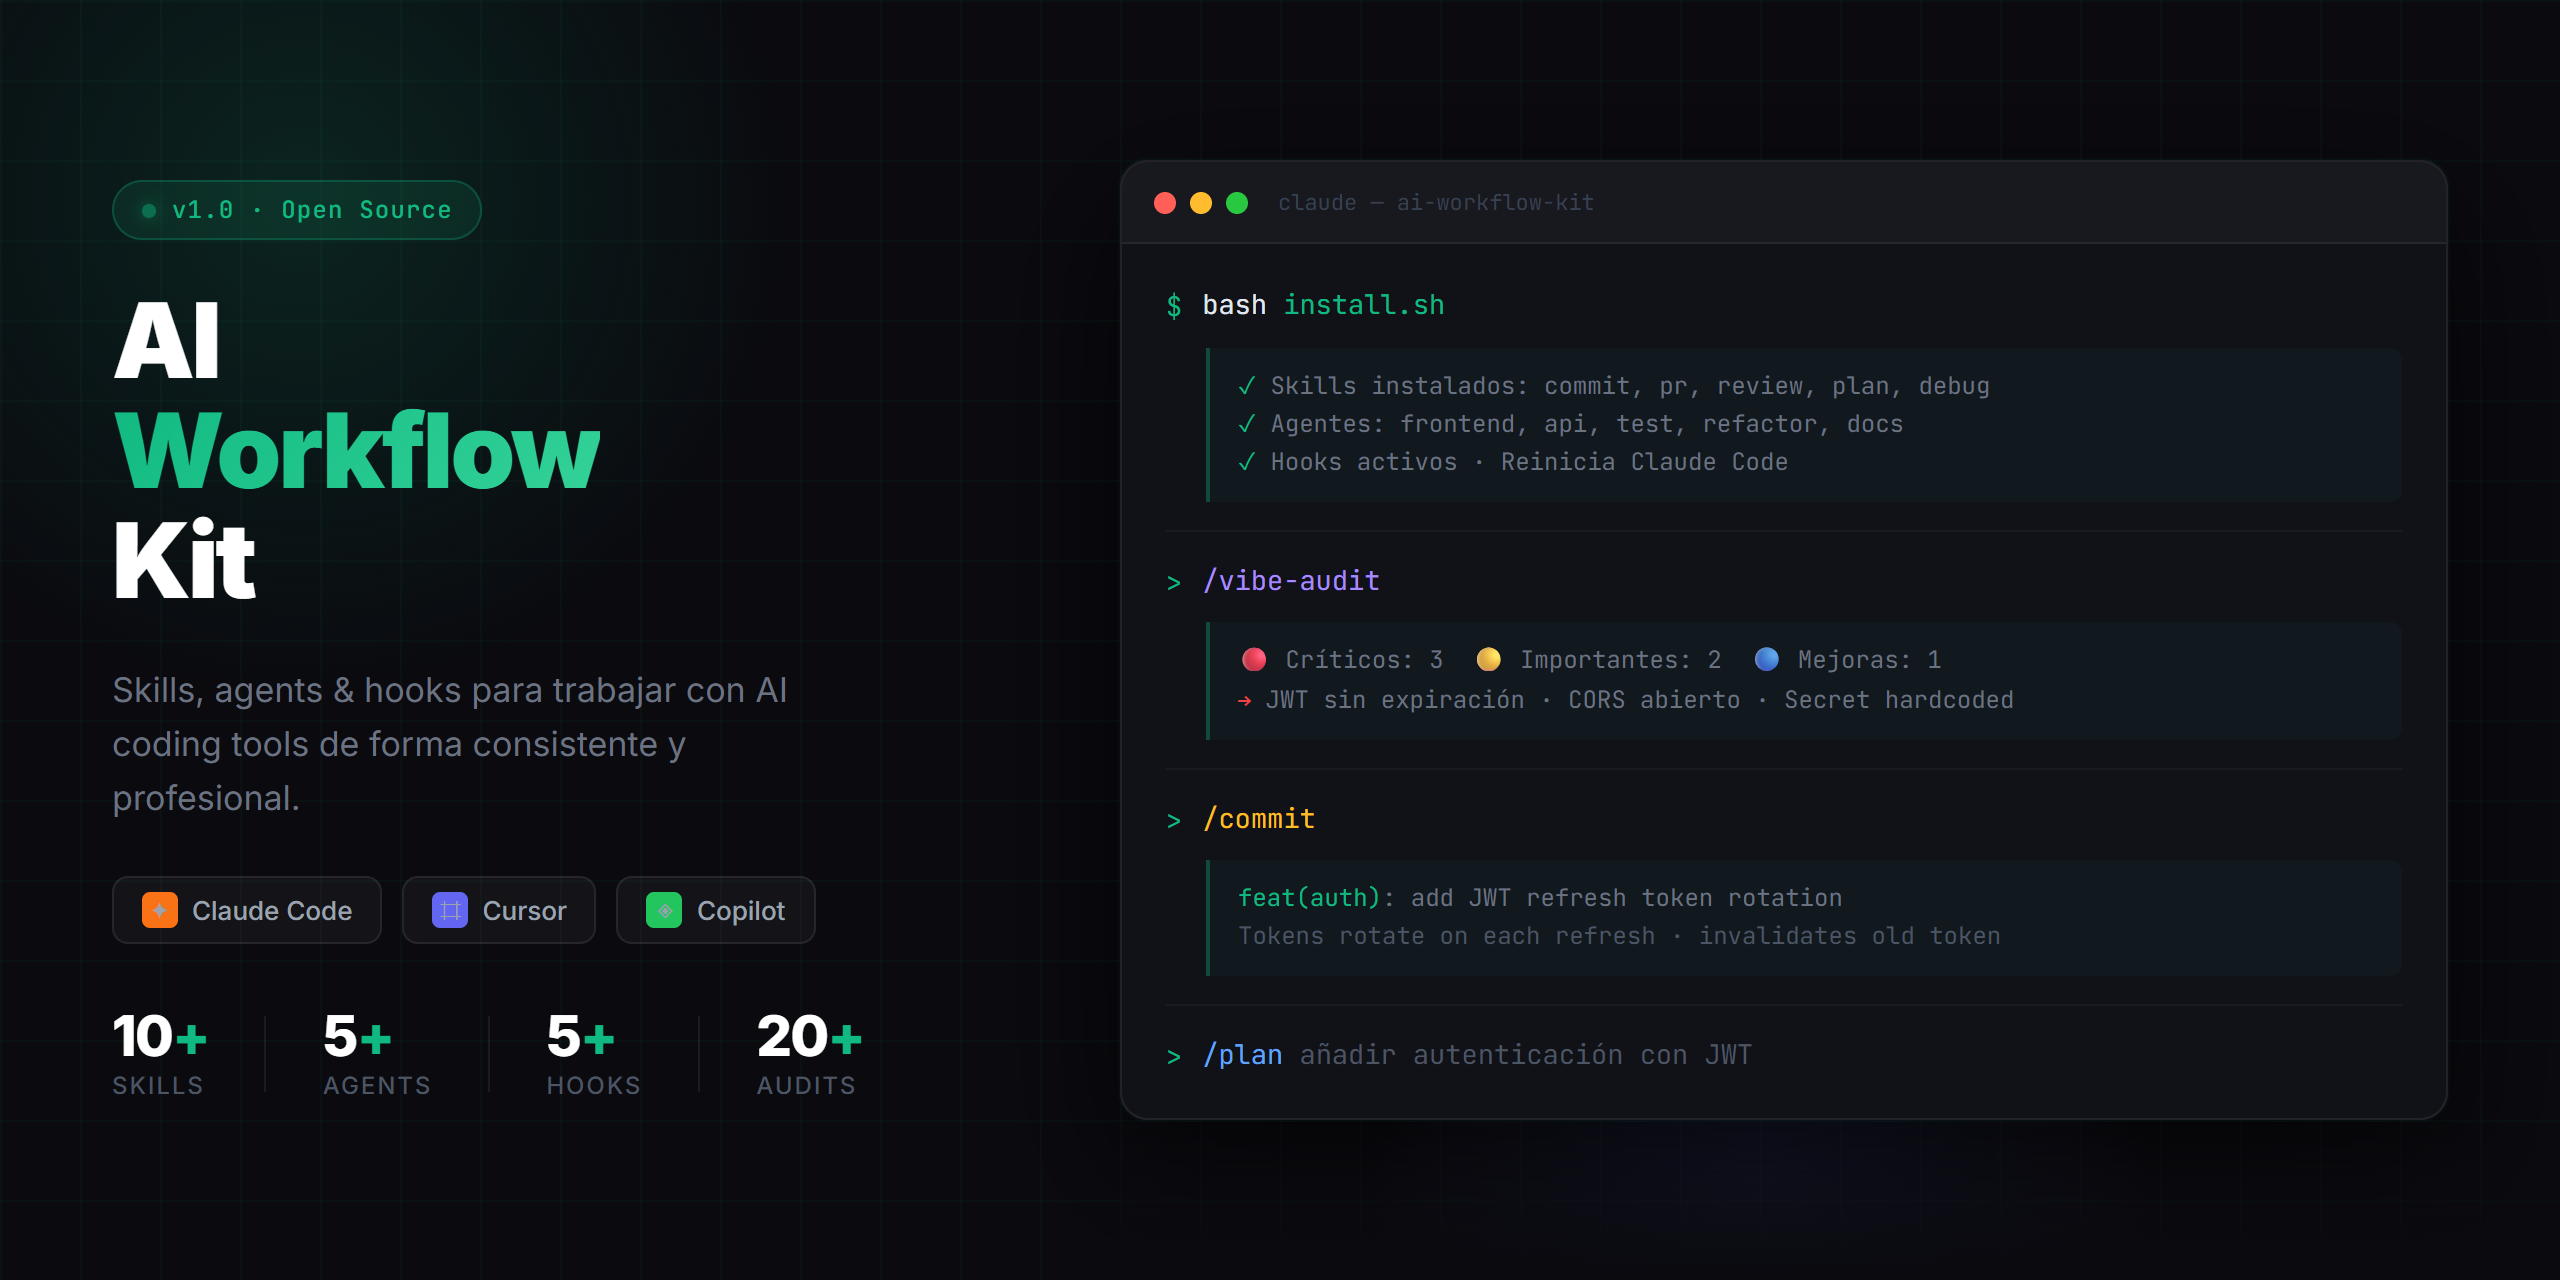
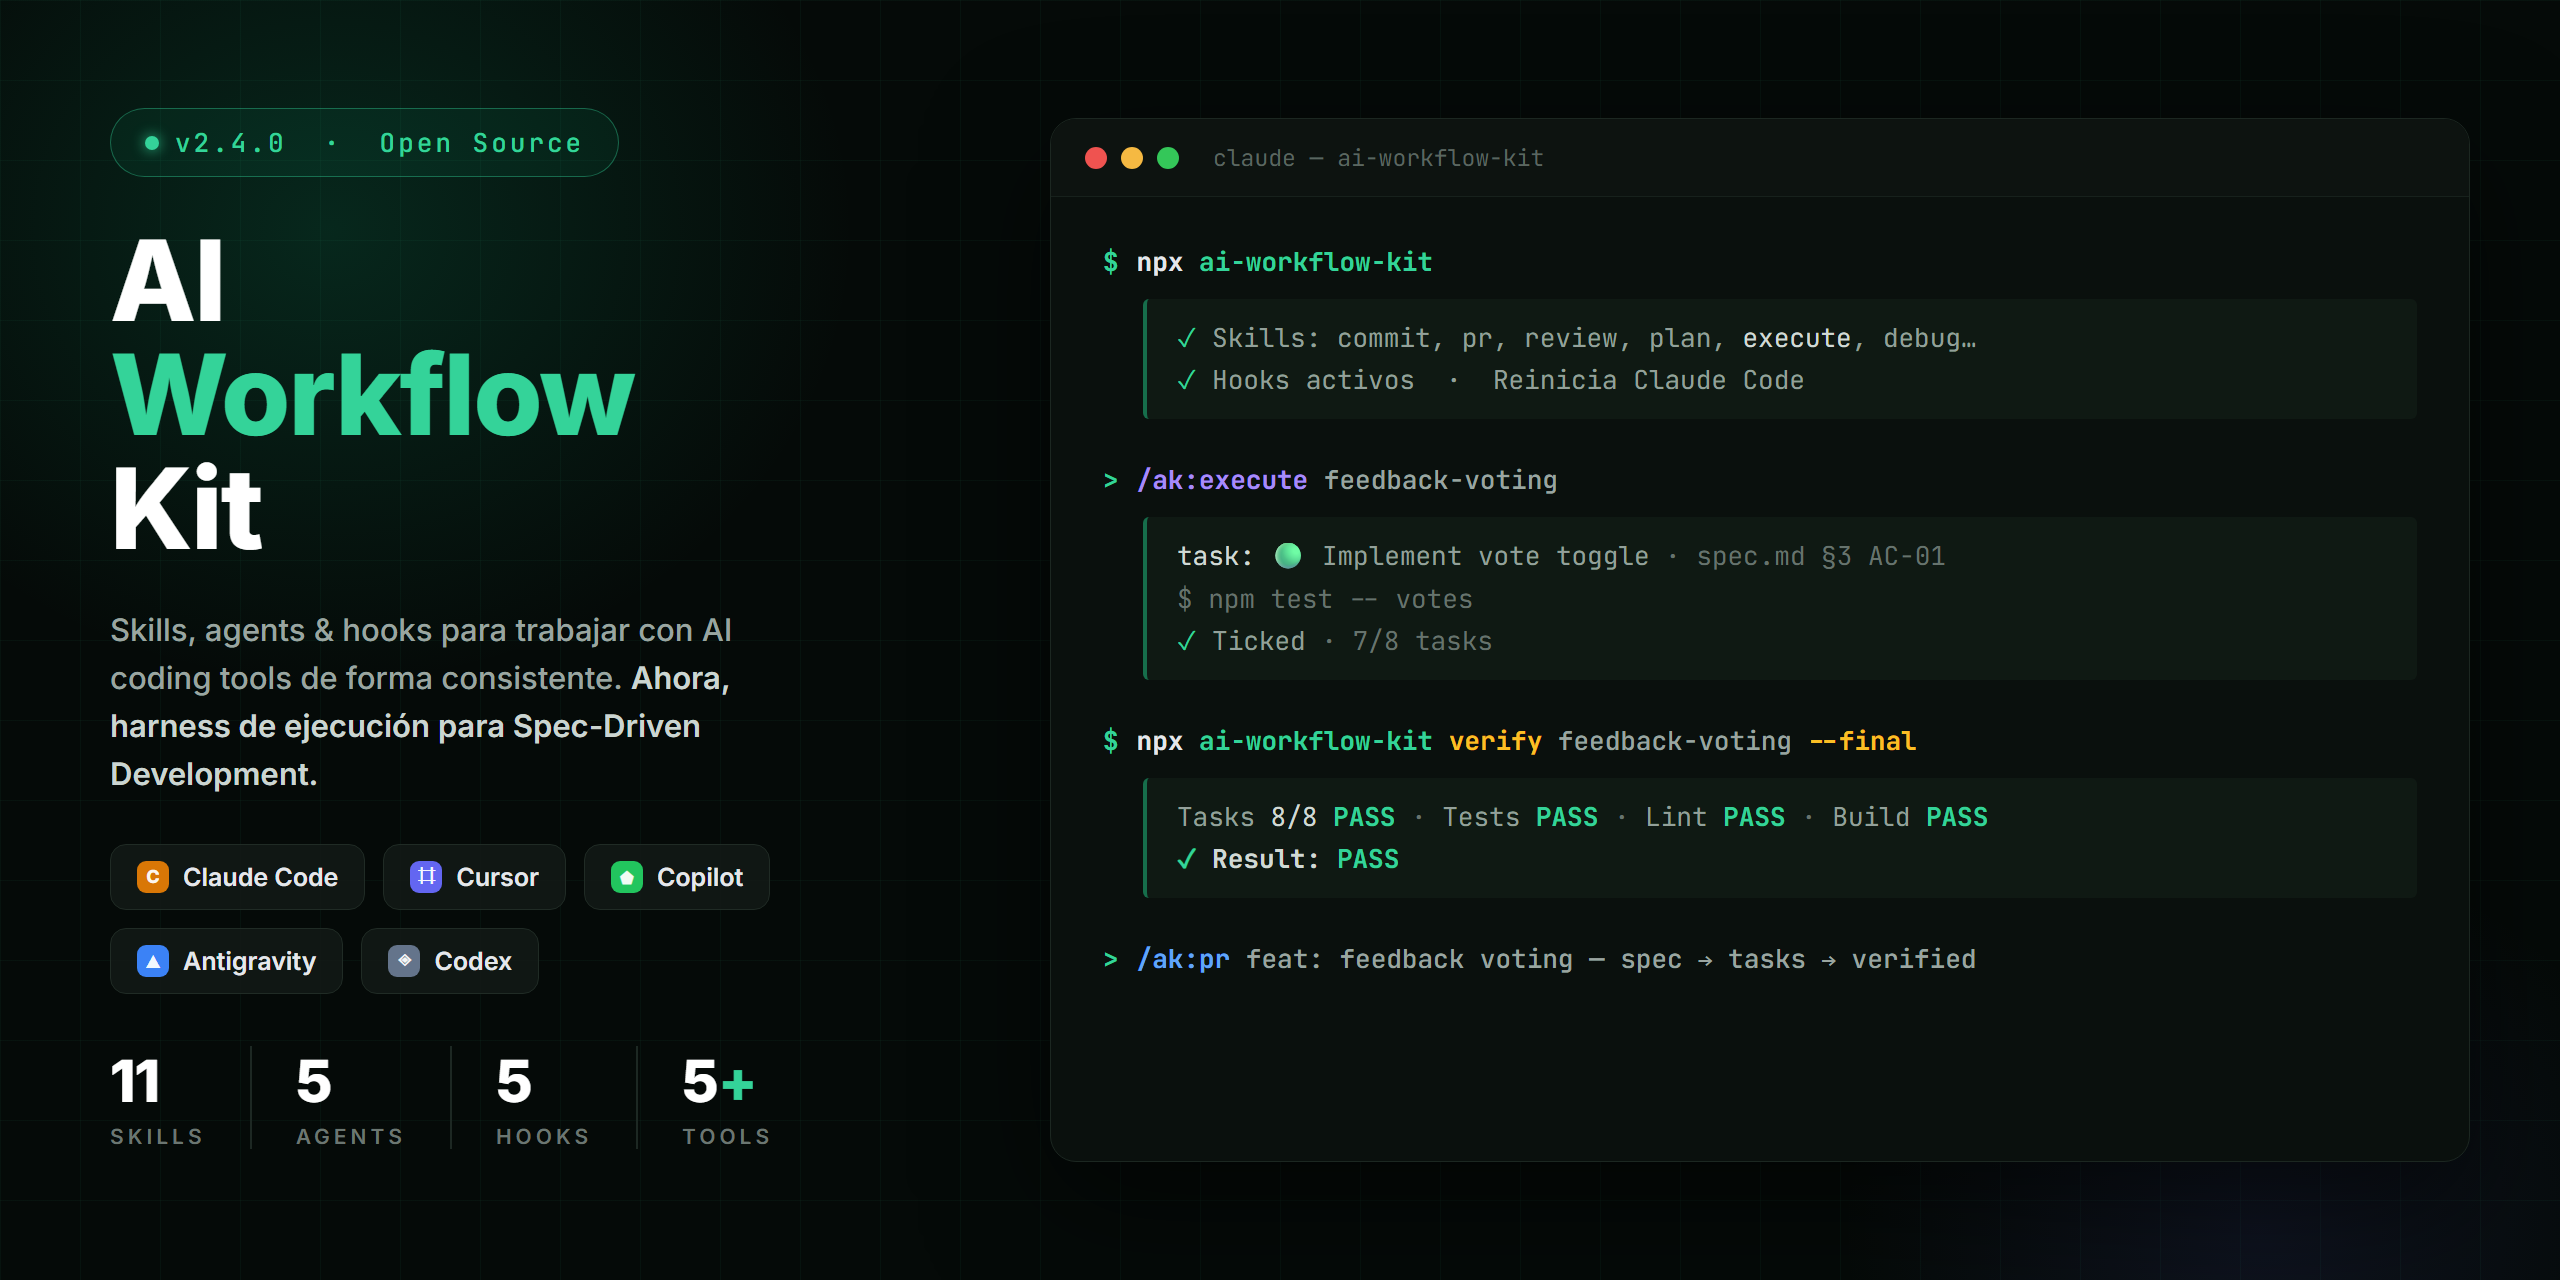
docs(readme): refresh the v2.4.0 cover and fix stale install/contribute sections
The banner still said v1.0, bash install.sh, three tools and pre-ak
command names. Rebuilt (with its HTML source now committed): v2.4.0,
five tools, and a terminal telling the SDD story — execute, verify,
--final. README fixes: the Claude Code install section copied flat
.md skills that stopped existing, How to Contribute pointed at editing
generated files, and the Structure tree omitted bin/, src/, docs/,
evals/ and .out-of-scope/. Both languages.

Claude-Session: https://claude.ai/code/session_013xsxEAEMyCqVQzPtApRQUP

diff --git a/banner.html b/banner.html
@@ -1,0 +1,166 @@
+<!doctype html>
+<!--
+  Source of banner.png. Regenerate after editing:
+  chrome --headless=new --disable-gpu --hide-scrollbars --force-device-scale-factor=1 \n    --window-size=2560,1280 --virtual-time-budget=10000 --screenshot=banner.png banner.html
+-->
+<html>
+<head>
+<meta charset="utf-8">
+<link rel="preconnect" href="https://fonts.googleapis.com">
+<link href="https://fonts.googleapis.com/css2?family=Inter:wght@500;600;700;800&family=JetBrains+Mono:wght@400;500;700&display=swap" rel="stylesheet">
+<style>
+  * { margin: 0; padding: 0; box-sizing: border-box; }
+  html, body { width: 2560px; height: 1280px; overflow: hidden; }
+  body {
+    font-family: 'Inter', 'Segoe UI', sans-serif;
+    background: #050a08;
+    position: relative;
+    color: #fff;
+  }
+  /* grid + glows */
+  .grid {
+    position: absolute; inset: 0;
+    background-image:
+      linear-gradient(rgba(52,211,153,.045) 1px, transparent 1px),
+      linear-gradient(90deg, rgba(52,211,153,.045) 1px, transparent 1px);
+    background-size: 80px 80px;
+  }
+  .glow-tl {
+    position: absolute; left: -420px; top: -420px; width: 1500px; height: 1300px;
+    background: radial-gradient(closest-side, rgba(16,185,129,.17), transparent 70%);
+  }
+  .glow-br {
+    position: absolute; right: -300px; bottom: -500px; width: 1200px; height: 1100px;
+    background: radial-gradient(closest-side, rgba(99,102,241,.10), transparent 70%);
+  }
+
+  .left { position: absolute; left: 110px; top: 108px; width: 720px; }
+
+  .badge {
+    display: inline-flex; align-items: center; gap: 16px;
+    border: 1.5px solid rgba(52,211,153,.4); border-radius: 999px;
+    background: rgba(16,185,129,.07);
+    padding: 16px 34px;
+    font-family: 'JetBrains Mono', monospace;
+    font-size: 26px; font-weight: 500; letter-spacing: 3px; color: #34d399;
+  }
+  .badge .dot { width: 14px; height: 14px; border-radius: 50%; background: #34d399; box-shadow: 0 0 14px rgba(52,211,153,.9); }
+
+  h1 { margin-top: 46px; font-size: 112px; line-height: 1.02; font-weight: 800; letter-spacing: -2px; }
+  h1 .accent { color: #34d399; }
+
+  .sub { margin-top: 40px; font-size: 31px; line-height: 1.55; color: #9aa5a0; font-weight: 500; max-width: 660px; }
+  .sub .hl { color: #cbd5d1; font-weight: 600; }
+
+  .pills { margin-top: 46px; display: flex; flex-wrap: wrap; gap: 18px; max-width: 700px; }
+  .pill {
+    display: inline-flex; align-items: center; gap: 14px;
+    background: rgba(19,26,22,.85); border: 1.5px solid #202b25; border-radius: 16px;
+    padding: 16px 26px; font-size: 25px; font-weight: 600; color: #e5e7eb;
+  }
+  .pill .ic { width: 32px; height: 32px; border-radius: 9px; display: inline-flex; align-items: center; justify-content: center; font-size: 18px; }
+  .ic-claude { background: #d97706; }
+  .ic-cursor { background: #6366f1; }
+  .ic-copilot { background: #22c55e; }
+  .ic-anti { background: #3b82f6; }
+  .ic-codex { background: #64748b; }
+  .pill .ic span { color: rgba(255,255,255,.95); font-weight: 800; }
+
+  .stats { margin-top: 52px; display: flex; align-items: flex-start; }
+  .stat { padding-right: 44px; }
+  .stat + .stat { border-left: 2px solid #1d2823; padding-left: 44px; }
+  .stat .num { font-size: 58px; font-weight: 800; letter-spacing: -1px; }
+  .stat .num .plus { color: #34d399; }
+  .stat .lbl { margin-top: 8px; font-size: 21px; font-weight: 600; letter-spacing: 4px; color: #6b7671; }
+
+  /* terminal */
+  .term {
+    position: absolute; right: 90px; top: 118px; width: 1420px; height: 1044px;
+    background: #0a100d; border: 1.5px solid #1c2721; border-radius: 26px;
+    box-shadow: 0 40px 120px rgba(0,0,0,.55);
+    overflow: hidden;
+  }
+  .term-head {
+    height: 78px; display: flex; align-items: center; gap: 14px;
+    padding: 0 34px; background: #0d1310; border-bottom: 1.5px solid #17211c;
+  }
+  .term-head .b { width: 22px; height: 22px; border-radius: 50%; }
+  .term-head .r { background: #ef5350; } .term-head .y { background: #f5b942; } .term-head .g { background: #34c759; }
+  .term-head .title { margin-left: 20px; font-family: 'JetBrains Mono', monospace; font-size: 23px; color: #5b6660; }
+
+  .term-body { padding: 44px 52px; font-family: 'JetBrains Mono', monospace; font-size: 26px; line-height: 1.62; }
+  .cmd { display: flex; gap: 18px; }
+  .cmd .ps { color: #34d399; font-weight: 700; }
+  .cmd .c-white { color: #e5e7eb; font-weight: 700; }
+  .cmd .c-green { color: #34d399; font-weight: 700; }
+  .cmd .c-purple { color: #a78bfa; font-weight: 700; }
+  .cmd .c-yellow { color: #fbbf24; font-weight: 700; }
+  .cmd .c-blue { color: #60a5fa; font-weight: 700; }
+  .cmd .arg { color: #9aa5a0; font-weight: 500; }
+  .out {
+    margin: 16px 0 40px 40px; padding: 18px 30px;
+    border-left: 4px solid #166e4b; background: rgba(20,32,26,.55); border-radius: 6px;
+    color: #93a09a;
+  }
+  .out .ok { color: #34d399; }
+  .out .warn { color: #fbbf24; }
+  .out .em { color: #d1d9d5; }
+  .out .dim { color: #66736d; }
+  .out .pass { color: #34d399; font-weight: 700; }
+  .result-line { font-weight: 700; color: #d1d9d5; }
+</style>
+</head>
+<body>
+  <div class="grid"></div>
+  <div class="glow-tl"></div>
+  <div class="glow-br"></div>
+
+  <div class="left">
+    <div class="badge"><span class="dot"></span>v2.4.0 &nbsp;·&nbsp; Open Source</div>
+    <h1>AI<br><span class="accent">Workflow</span><br>Kit</h1>
+    <div class="sub">Skills, agents &amp; hooks para trabajar con AI coding tools de forma consistente. <span class="hl">Ahora, harness de ejecución para Spec-Driven Development.</span></div>
+    <div class="pills">
+      <div class="pill"><span class="ic ic-claude"><span>C</span></span>Claude Code</div>
+      <div class="pill"><span class="ic ic-cursor"><span>⌗</span></span>Cursor</div>
+      <div class="pill"><span class="ic ic-copilot"><span>⬟</span></span>Copilot</div>
+      <div class="pill"><span class="ic ic-anti"><span>▲</span></span>Antigravity</div>
+      <div class="pill"><span class="ic ic-codex"><span>◈</span></span>Codex</div>
+    </div>
+    <div class="stats">
+      <div class="stat"><div class="num">11</div><div class="lbl">SKILLS</div></div>
+      <div class="stat"><div class="num">5</div><div class="lbl">AGENTS</div></div>
+      <div class="stat"><div class="num">5</div><div class="lbl">HOOKS</div></div>
+      <div class="stat"><div class="num">5<span class="plus">+</span></div><div class="lbl">TOOLS</div></div>
+    </div>
+  </div>
+
+  <div class="term">
+    <div class="term-head">
+      <span class="b r"></span><span class="b y"></span><span class="b g"></span>
+      <span class="title">claude — ai-workflow-kit</span>
+    </div>
+    <div class="term-body">
+      <div class="cmd"><span class="ps">$</span><span><span class="c-white">npx</span> <span class="c-green">ai-workflow-kit</span></span></div>
+      <div class="out">
+        <div><span class="ok">✓</span> Skills: commit, pr, review, plan, <span class="em">execute</span>, debug…</div>
+        <div><span class="ok">✓</span> Hooks activos &nbsp;·&nbsp; Reinicia Claude Code</div>
+      </div>
+
+      <div class="cmd"><span class="ps">&gt;</span><span><span class="c-purple">/ak:execute</span> <span class="arg">feedback-voting</span></span></div>
+      <div class="out">
+        <div><span class="em">task:</span> 🟢 Implement vote toggle <span class="dim">· spec.md §3 AC-01</span></div>
+        <div><span class="dim">$ npm test -- votes</span></div>
+        <div><span class="ok">✓</span> Ticked <span class="dim">· 7/8 tasks</span></div>
+      </div>
+
+      <div class="cmd"><span class="ps">$</span><span><span class="c-white">npx</span> <span class="c-green">ai-workflow-kit</span> <span class="c-yellow">verify</span> <span class="arg">feedback-voting</span> <span class="c-yellow">--final</span></span></div>
+      <div class="out">
+        <div>Tasks <span class="em">8/8</span> <span class="pass">PASS</span> <span class="dim">·</span> Tests <span class="pass">PASS</span> <span class="dim">·</span> Lint <span class="pass">PASS</span> <span class="dim">·</span> Build <span class="pass">PASS</span></div>
+        <div class="result-line"><span class="ok">✓</span> Result: <span class="pass">PASS</span></div>
+      </div>
+
+      <div class="cmd"><span class="ps">&gt;</span><span><span class="c-blue">/ak:pr</span> <span class="arg">feat: feedback voting — spec → tasks → verified</span></span></div>
+    </div>
+  </div>
+</body>
+</html>

diff --git a/README.es.md b/README.es.md
@@ -101,6 +101,16 @@ ai-workflow-kit/
 ├── .cursorrules                     # Reglas para Cursor
 ├── .github/
 │   └── copilot-instructions.md     # Instrucciones para GitHub Copilot
+├── .out-of-scope/                  # Features declinadas por diseño, con el razonamiento
+├── bin/
+│   ├── cli.js                      # El instalador npx + dispatch de `verify`
+│   └── plan-verify.js              # El motor verify — plan.md + tasks.md, --recheck, --final
+├── src/
+│   └── skills/                     # Fuentes de skills escritas a mano — las tres distribuciones se generan desde aquí
+├── docs/
+│   ├── authoring-skills.md         # Campos del spec, pipeline de build y los gates que CI aplica
+│   └── skills/                     # Una página por skill, para humanos
+├── evals/                          # Tests deterministas + evals de skills con LLM
 ├── antigravity-skills/
 │   ├── help/SKILL.md               # @help — enruta una tarea a la skill que encaja
 │   ├── setup/SKILL.md              # @setup — registra las convenciones del repo en .ak/config.md
@@ -207,7 +217,13 @@ Ver `hooks/README.md` para instrucciones de instalación.
 ### Instalar los skills
 
 ```bash
-cp skills/*.md ~/.claude/skills/
+npx ai-workflow-kit            # pregunta si global o por proyecto
+```
+
+O copia a mano — cada skill es un directorio con su `SKILL.md`:
+
+```bash
+cp -r skills/* ~/.claude/skills/
 ```
 
 ### Usar en cualquier proyecto
@@ -302,13 +318,16 @@ El script de release automáticamente:
 ## Cómo contribuir
 
 1. Haz fork del repo
-2. Agrega tu skill en `skills/nombre.md` siguiendo el patrón existente
-3. Documenta el trigger, los pasos y las reglas
+2. Escribe tu skill en `src/skills/<id>.md` — la única fuente escrita a mano; `skills/`, `antigravity-skills/` y `codex-prompts/` se generan desde ella con `npm run build`. Los campos del spec y los gates (página de docs, cobertura de evals) están en [docs/authoring-skills.md](docs/authoring-skills.md).
+3. Ejecuta `npm run build && npm test` — `build:check` falla con distribuciones editadas a mano o docs que faltan.
 4. Abre un PR con `/ak:pr`
+
+Antes de proponer una feature, revisa [`.out-of-scope/`](.out-of-scope/README.md) — un archivo por cosa que este repo decidió no construir, con el razonamiento.
 
 ## Filosofía
 
 - **Diagnosticar antes de actuar** — un plan aprobado vale más que código rápido
+- **Progreso demostrado** — una casilla se marca porque su comando salió con 0, nunca porque un agente lo afirme
 - **Skills cross-tool** — los mismos patrones funcionan en Claude Code, Cursor, Copilot, Antigravity y Codex
 - **Memoria persistente** — la IA debe recordar el contexto, no pedirlo cada vez
 - **Output predecible** — cada skill produce el mismo formato, siempre

diff --git a/README.md b/README.md
@@ -101,6 +101,16 @@ ai-workflow-kit/
 ├── .cursorrules                     # Rules for Cursor
 ├── .github/
 │   └── copilot-instructions.md     # Instructions for GitHub Copilot
+├── .out-of-scope/                  # Features declined on design grounds, with reasoning
+├── bin/
+│   ├── cli.js                      # The npx installer + `verify` dispatch
+│   └── plan-verify.js              # The verify engine — plan.md + tasks.md, --recheck, --final
+├── src/
+│   └── skills/                     # Hand-written skill sources — the three distributions are generated from here
+├── docs/
+│   ├── authoring-skills.md         # Spec fields, build pipeline, and the gates CI enforces
+│   └── skills/                     # One human-facing page per skill
+├── evals/                          # Deterministic tests + LLM-graded skill evals
 ├── antigravity-skills/
 │   ├── help/SKILL.md               # @help — routes a task to the skill that fits
 │   ├── setup/SKILL.md              # @setup — records repo conventions in .ak/config.md
@@ -207,8 +217,13 @@ See `hooks/README.md` for installation instructions.
 ### Install the skills
 
 ```bash
-# Copy skills to Claude Code
-cp skills/*.md ~/.claude/skills/
+npx ai-workflow-kit            # asks global or project scope
+```
+
+Or copy by hand — each skill is a directory with a `SKILL.md`:
+
+```bash
+cp -r skills/* ~/.claude/skills/
 ```
 
 ### Use in any project
@@ -303,13 +318,16 @@ The release script automatically:
 ## How to Contribute
 
 1. Fork the repo
-2. Add your skill in `skills/name.md` following the existing pattern
-3. Document the trigger, steps, and rules
+2. Write your skill in `src/skills/<id>.md` — the one hand-written source; `skills/`, `antigravity-skills/`, and `codex-prompts/` are generated from it by `npm run build`. See [docs/authoring-skills.md](docs/authoring-skills.md) for the spec fields and the gates (docs page, eval coverage) the build enforces.
+3. Run `npm run build && npm test` — `build:check` fails on hand-edited distributions and missing docs.
 4. Open a PR with `/ak:pr`
+
+Before proposing a feature, check [`.out-of-scope/`](.out-of-scope/README.md) — one file per thing this repo has decided not to build, with the reasoning.
 
 ## Philosophy
 
 - **Diagnose before acting** — an approved plan is worth more than fast code
+- **Demonstrated progress** — a checkbox is ticked because its command exited 0, never because an agent asserted it
 - **Cross-tool skills** — the same patterns work in Claude Code, Cursor, Copilot, Antigravity, and Codex
 - **Persistent memory** — the AI should remember context, not ask for it every time
 - **Predictable output** — each skill produces the same format, every time
